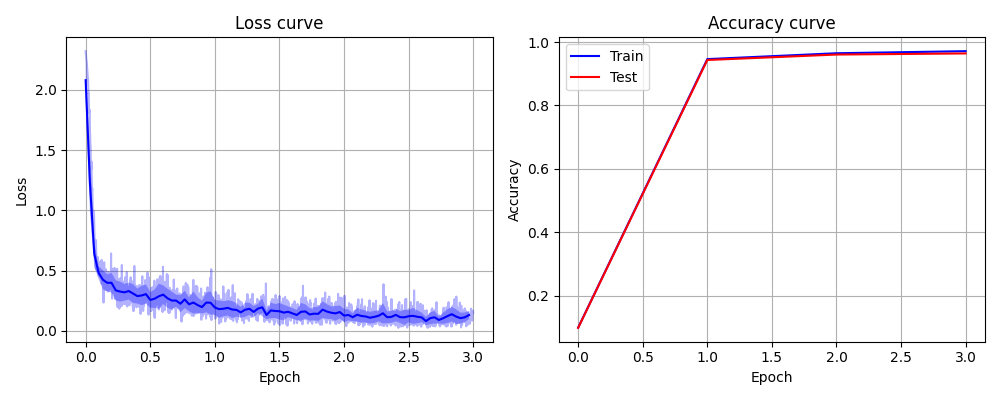
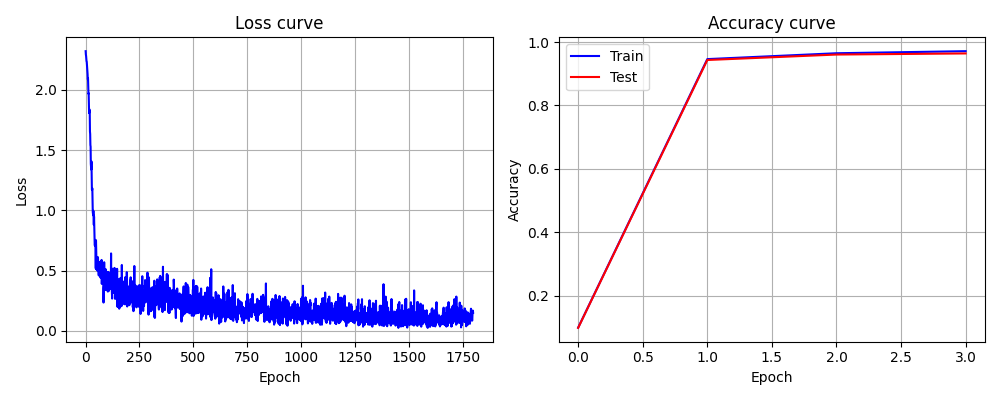
Simplify plotting code

diff --git a/topics/pytorch/mlp_mnist.py b/topics/pytorch/mlp_mnist.py
@@ -107,20 +107,9 @@ def main():
         table.print_last()
         table.update(level=1, epoch=epoch+1)
 
-    batch_loss = table.get_data("batch_loss")
-    downsample_ratio = 20
-    mean, ucb, lcb = util.confidence_bounds(
-        np.array(batch_loss),
-        split_dim=0,
-        downsample_ratio=downsample_ratio,
-    )
-    x = np.linspace(0, num_epochs, len(batch_loss))
-    x_ds = x[::downsample_ratio]
     mp = plotting.MultiPlot(
         plotting.Subplot(
-            plotting.Line(x, batch_loss, c="b", a=0.3, z=20),
-            plotting.Line(x_ds, mean, c="b", z=30),
-            plotting.FillBetween(x_ds, ucb, lcb, c="b", a=0.3, z=10),
+            plotting.Line(table.get_data("batch_loss")),
             xlabel="Epoch",
             ylabel="Loss",
             title="Loss curve",
